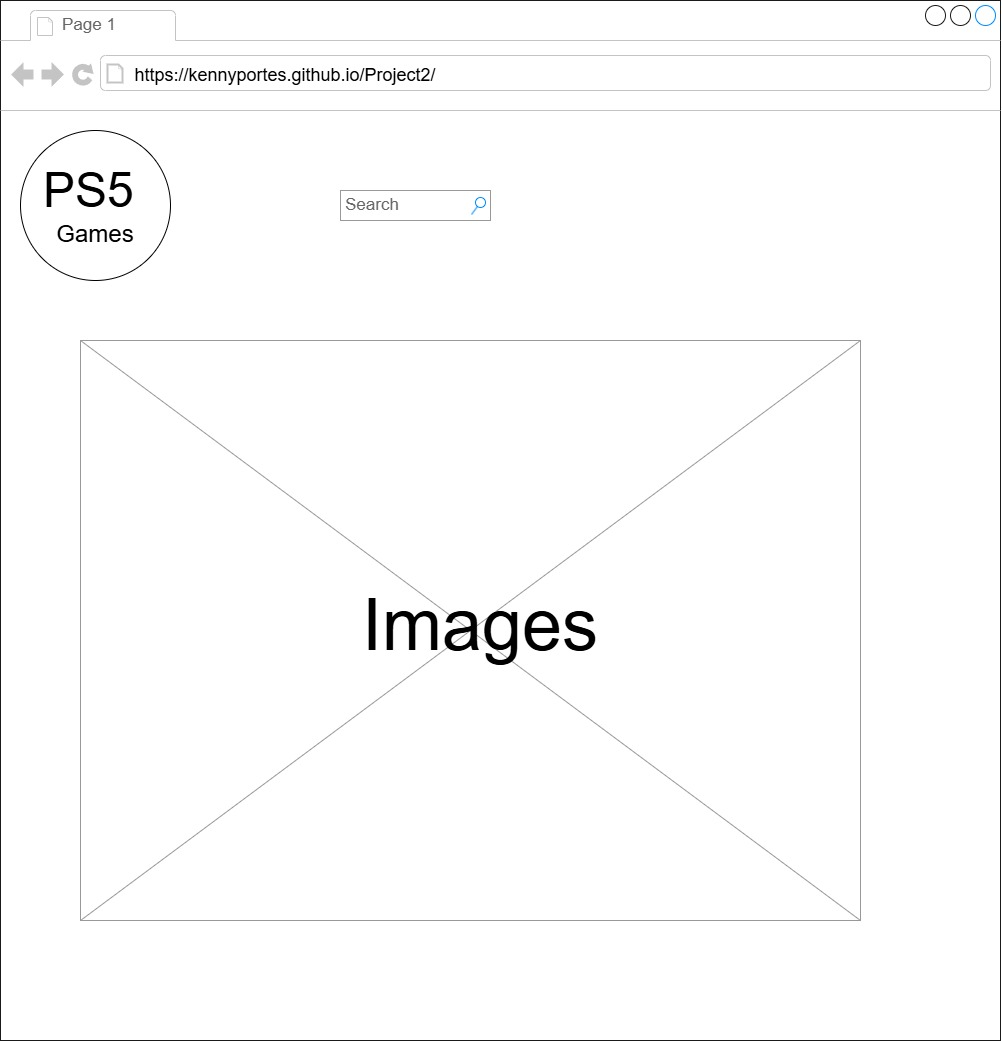
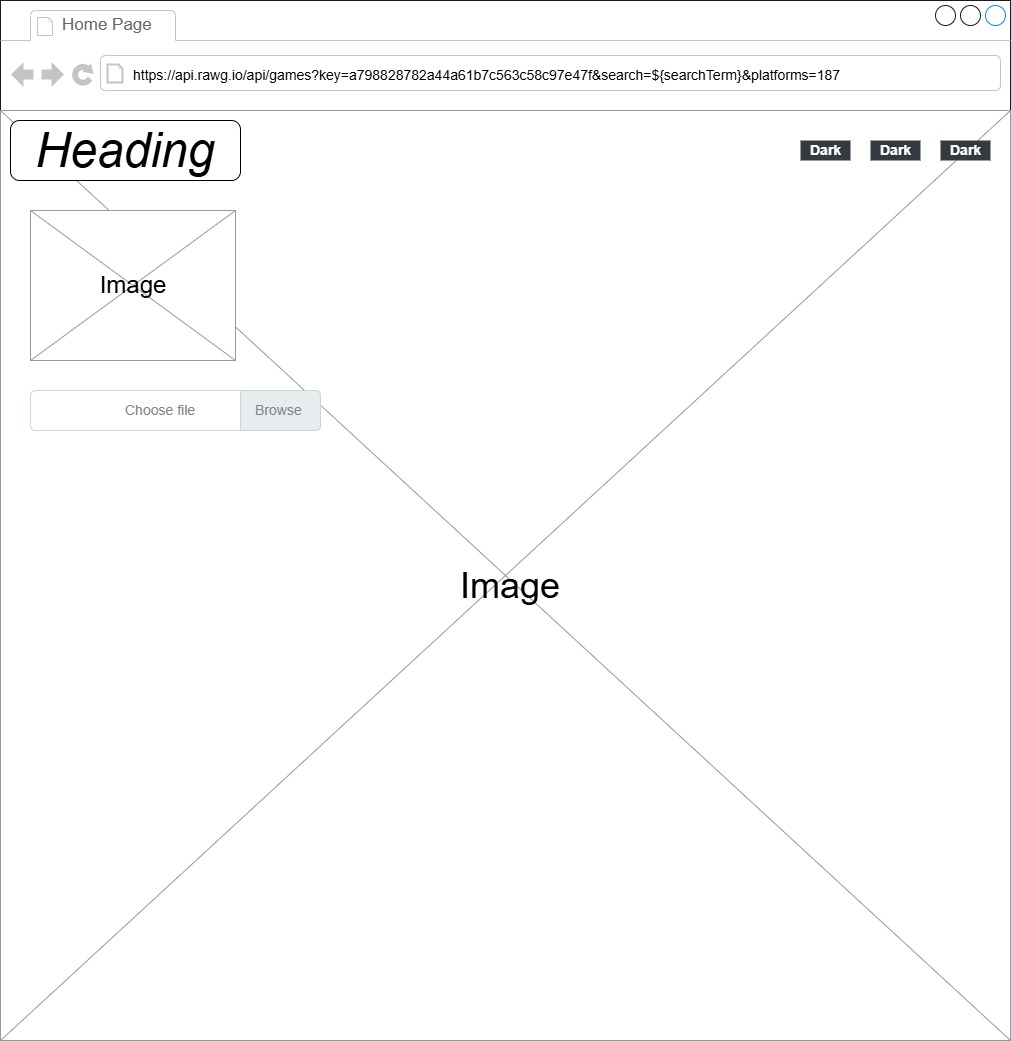
Fianl commit before submiting

diff --git a/Readme.md b/Readme.md
@@ -1,18 +1,30 @@
 # Kenny Portes Project 2
 
 ## Overview 
-This project is a streamlined web application designed for browsing PlayStation 5 titles.Simply enter a
+This project is a streamlined web application designed for browsing PlayStation 5 titles. Simply enter a
 title into the search bar to explore a massive library of PlayStation 5 games. Browse through your 
 results and click on any game to unlock deeper insights, gameplay info, and everything else you need to 
 know before you play.
 
 ## Functionality
-
+A search form on the web page to search video games made for Playstation 5. Where the user type in an 
+input value the code fetches the api key and outputs it search for any related video game for PS5. Async 
+is used to always return a promise.Await is also used in the code which pauses the execution of that 
+function until a task finishes. As the code is fetch the data from API key it dispalys in a text what it
+is doing (e.g. Searching...). It then will display an image of the game, as well as the 
+rates and the relase date for that specific game.
 
 ## Technologies
 - HTML.
 - CSS.
 - JavaScript.
-- Using Giphy to obtain API key.
+- Using rawg.io to obtain API key.
+- Bootstrap.
+- Google font.
 
 ## Future improvement
+1. Style the images that from the ApI key where that the dispaly in a rows of 3.
+2. Using an API key with a more data.
+3. Instead of just games for Playstion 5 use the API key for all video game consoles.
+4. More styling for the home page.
+5. Have About link button on the nav bar to link to a sepearte page. Explain more about the website.
